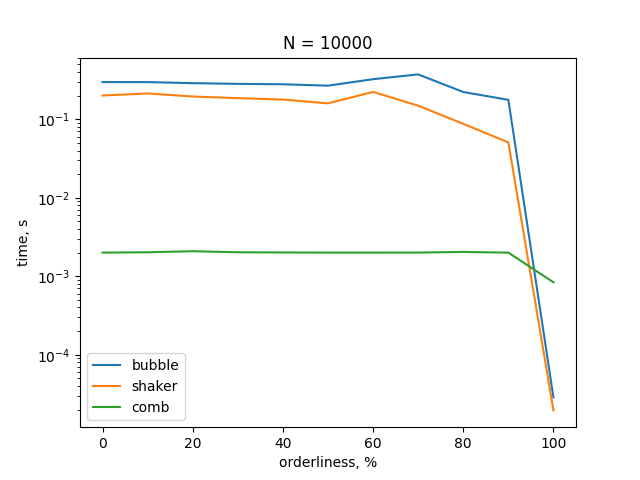
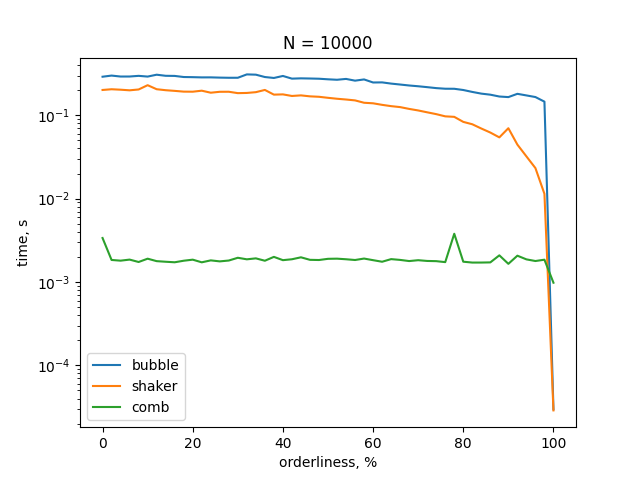
update benchmarks for combSort

diff --git a/problems/quadratic_sorting/benchmarks.py b/problems/quadratic_sorting/benchmarks.py
@@ -46,7 +46,7 @@ def get_benchmark_of_orderliness(N, mc):
     bubble_measurements = []
     shaker_measurements = []
     comb_measurements = []
-    for o in range(0, 101, 10):
+    for o in range(0, 101, 2):
         times = get_times(N, o / 100, (mc * 100) if (o == 100) else mc)
         os += [o]
         bubble_measurements += [times[0]]
@@ -66,12 +66,12 @@ def get_benchmark_of_orderliness(N, mc):
     plt.clf()
 
 os.makedirs("benchmarks", exist_ok=True)
-# get_benchmark_of_N(0)
-# get_benchmark_of_N(0.2)
-# get_benchmark_of_N(0.4)
-# get_benchmark_of_N(0.6)
-# get_benchmark_of_N(0.8)
-# get_benchmark_of_N(1.0, 100)
+get_benchmark_of_N(0)
+get_benchmark_of_N(0.2)
+get_benchmark_of_N(0.4)
+get_benchmark_of_N(0.6)
+get_benchmark_of_N(0.8)
+get_benchmark_of_N(1.0, 100)
 get_benchmark_of_orderliness(100, 10000)
 get_benchmark_of_orderliness(1000, 100)
-get_benchmark_of_orderliness(10000, 1)
+get_benchmark_of_orderliness(10000, 20)
